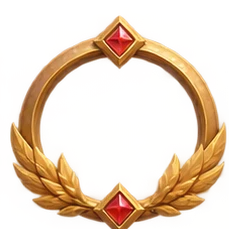
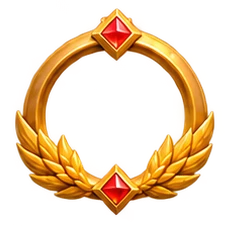
fix(arowgo): replace frames with centered spaced ring artwork

diff --git a/products/interfrozt/games/arowgo/docs/PROFILE-AVATARS.md b/products/interfrozt/games/arowgo/docs/PROFILE-AVATARS.md
@@ -33,3 +33,9 @@ Portrait positioning correction: recropped the source using artwork row boundari
 Replaced all 30 portraits from the user's Spaced Fantasy Avatar Grid.png. The supplied RGB image had an opaque pastel backdrop. Used the built-in image_gen tool for background extraction with this prompt: "Background extraction only. Remove the pastel backdrop and top-left yellow light from this exact sprite sheet, replace all background with actual transparent alpha. Preserve exactly all 30 character portraits, appearance, order, scale, spacing, and the 6 columns by 5 rows layout. Do not add, redraw, rearrange, enlarge, merge or omit characters. Keep clean soft cutout edges and all ears/hats/accessories intact. Output single transparent PNG sprite sheet, same aspect ratio."
 
 Cropped the transparent result into 6 x 5 equal cells and resized to 229px WebP, preserving the source padding instead of trimming or enlarging characters. Runtime files remain public/assets/avatars/adventure-01.webp through adventure-30.webp, preserving saved IDs. Removed the extra UI-gap override introduced by the earlier misunderstanding. Backgrounds, frames, currency and progress are unchanged.
+
+## Spaced ring replacement
+
+Replaced the thirty frame assets using the user's 30 Fantasy Frame Rings Collection.png. Source was RGB with white outside/inside the rings. Built-in image_gen background extraction prompt: "Background extraction only for this exact game asset sheet. Remove the white background outside every frame AND inside all thirty ring openings, replacing with genuine transparent alpha. Preserve all 30 frames, original artwork, colors, details, their exact order and 6-column x 5-row layout, scale and spacing. Preserve white feathers, fur, clouds, pearls and highlights belonging to the frames. No redrawing, rearranging, new objects, missing frames, shadows in openings or checkerboard. Output a transparent PNG with the same aspect ratio."
+
+Runtime files stay public/assets/avatars/frames/frame-01.webp through frame-30.webp. Each 229px crop is centered on its ring rather than on the sheet's nominal grid, preserving saved IDs and the existing overlay component. No inventory, balance or profile-schema changes.
